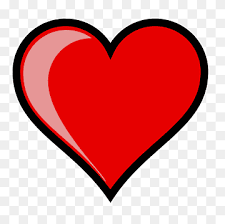
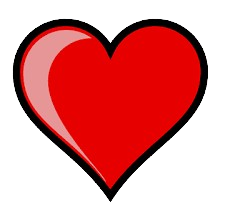
fix bg image love

diff --git a/index.html b/index.html
@@ -34,9 +34,7 @@
 			position: absolute;
 			width: 50px;
 			height: 50px;
-			background-image: linear-gradient(rgba(255, 0, 247, 0.5), rgba(219, 112, 164, 0.5)),
-				url('./images/heart.png');
-			/* background: url('images/heart.png') no-repeat center; */
+			background: url('images/heart.png') no-repeat center;
 			background-size: contain;
 			background-repeat: no-repeat;
 			animation: float 6s ease-in-out infinite, fadeInHeart 1.5s ease-in-out forwards;
